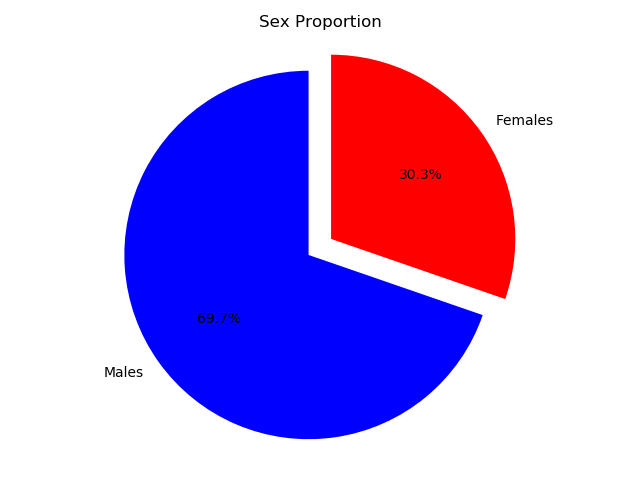
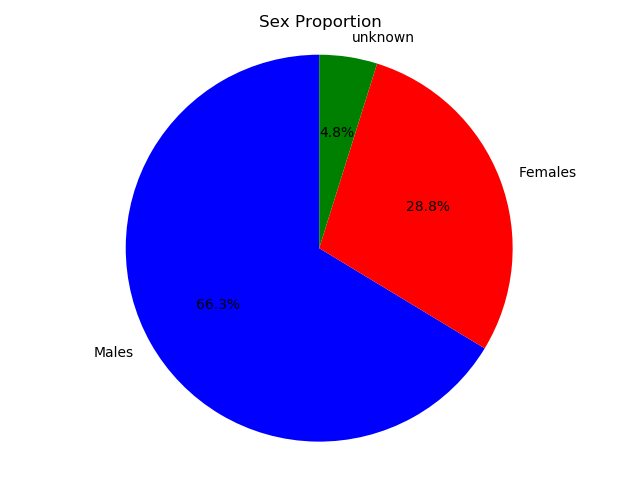
pandas数据处理+绘图

diff --git a/basic/pd/draw_population.py b/basic/pd/draw_population.py
@@ -6,8 +6,9 @@ def draw_pop(path):
     data = pd.read_csv(path, sep=',', encoding='ANSI')
     c_pop = data['2015年城市人口'].sum()
     r_pop = data['2015年农村人口'].sum()
-    properties = [c_pop, r_pop]
-    plt.pie(properties, labels=['Males', 'Females'], shadow=False, colors=['blue', 'red'], explode=(0.15, 0),
+    properties = [c_pop, r_pop, 10000]
+    plt.pie(properties, labels=['Males', 'Females', 'unknown'], shadow=False, colors=['blue', 'red', 'green'],
+            explode=(0, 0, 0),
             startangle=90, autopct='%1.1f%%')
     plt.axis('equal')
     plt.title('Sex Proportion')

diff --git a/basic/pd/pd-test.py b/basic/pd/pd-test.py
@@ -27,3 +27,12 @@ line = frame.ix[0, 'year']
 
 i = 1
 print(i + 1)
+
+if __name__ == '__main__':
+    x = [[1, 2, 3],
+         [4, 5, 6]]
+    y = [1,
+         -1]
+    for a, b in zip(x, y):
+        print(a, b)
+        print('-----')
